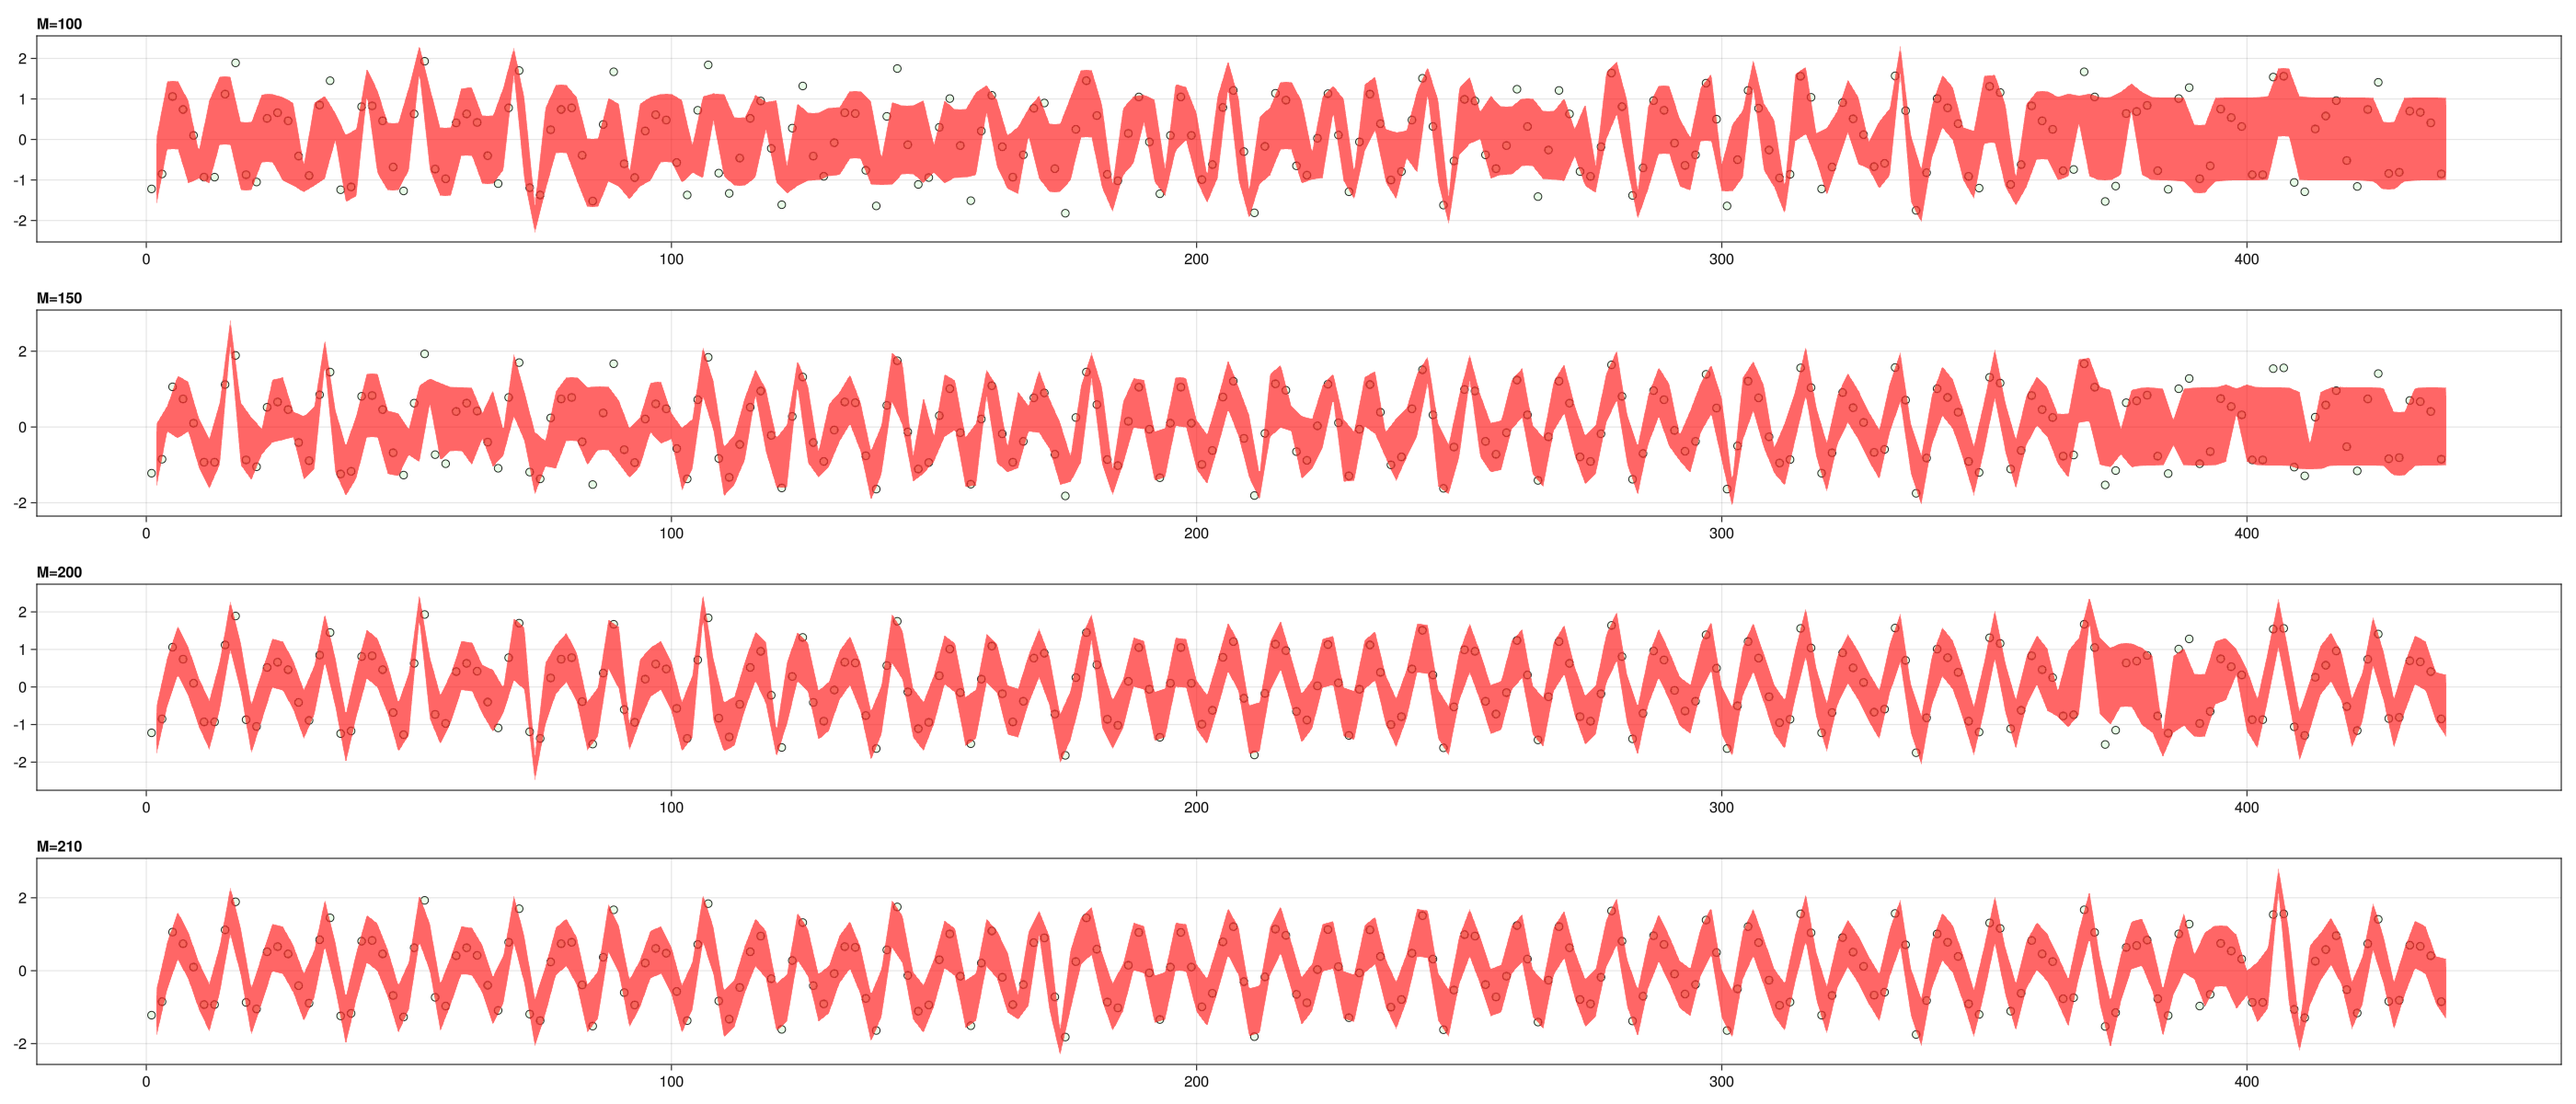
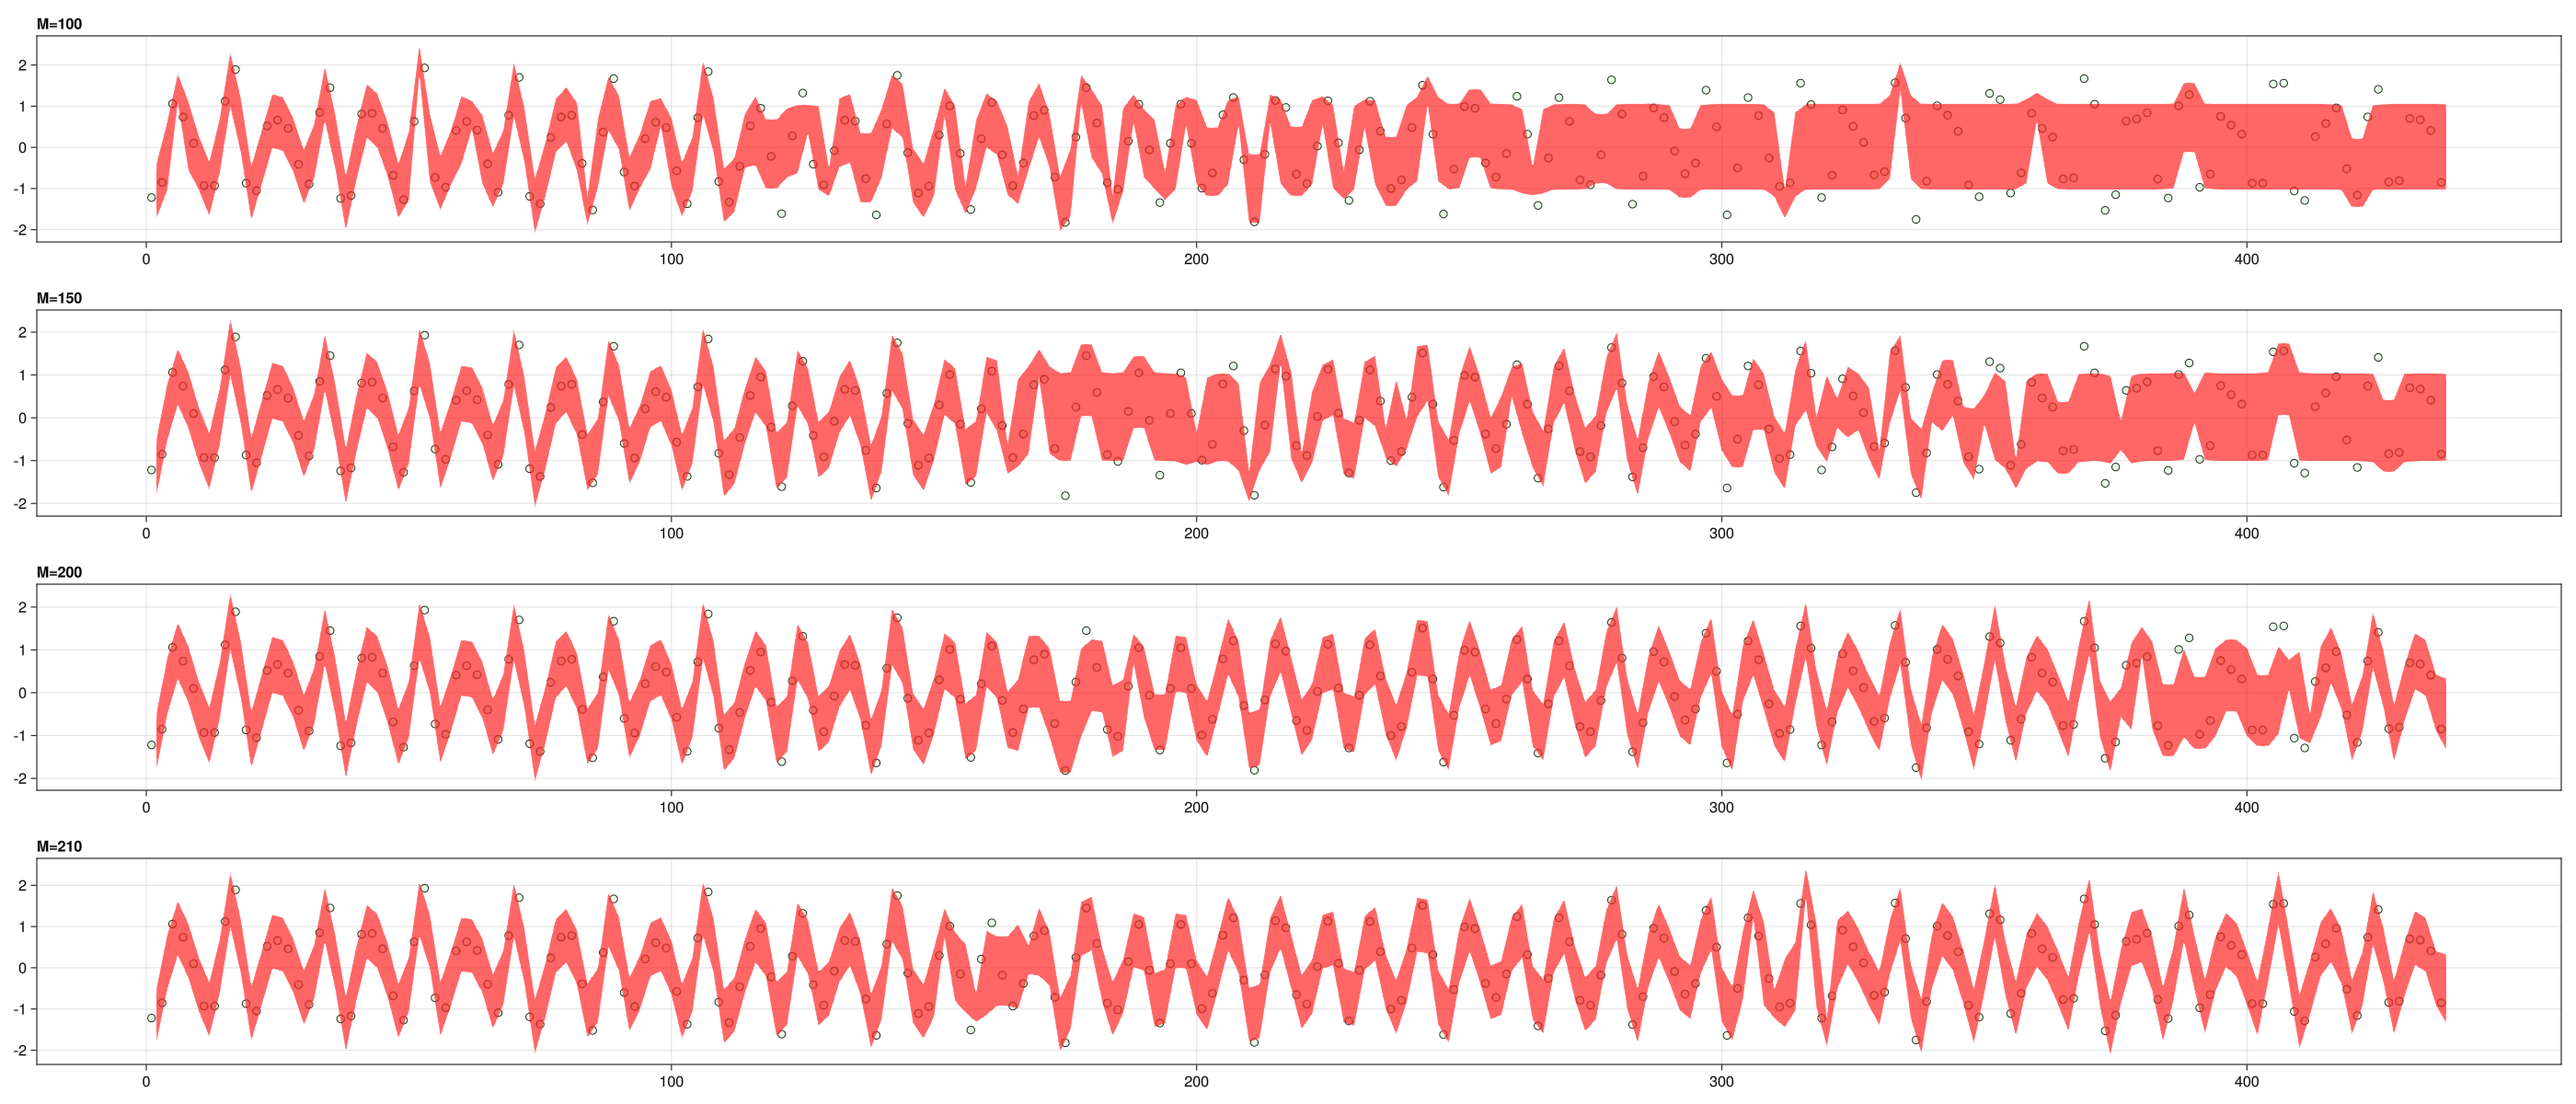
minor  modify
minor modify

diff --git a/docs/posts/tidePredict/index.html b/docs/posts/tidePredict/index.html
@@ -267,7 +267,7 @@ Note
 <span id="cb4-20"><a href="#cb4-20" aria-hidden="true" tabindex="-1"></a>        <span class="cf">end</span></span>
 <span id="cb4-21"><a href="#cb4-21" aria-hidden="true" tabindex="-1"></a>    <span class="kw">end</span></span></code><button title="Copy to Clipboard" class="code-copy-button"><i class="bi"></i></button></pre></div>
 </details>
-<div class="cell-output cell-output-display" data-execution_count="15">
+<div class="cell-output cell-output-display" data-execution_count="11">
 <pre><code>agp (generic function with 1 method)</code></pre>
 </div>
 </div>
@@ -294,7 +294,7 @@ Note
 <span id="cb6-15"><a href="#cb6-15" aria-hidden="true" tabindex="-1"></a>        <span class="co">#save("agp-tide-predict-odm-2.png",fig)</span></span>
 <span id="cb6-16"><a href="#cb6-16" aria-hidden="true" tabindex="-1"></a>    <span class="kw">end</span></span></code><button title="Copy to Clipboard" class="code-copy-button"><i class="bi"></i></button></pre></div>
 </details>
-<div class="cell-output cell-output-display" data-execution_count="16">
+<div class="cell-output cell-output-display" data-execution_count="12">
 <pre><code>plot_models (generic function with 1 method)</code></pre>
 </div>
 </div>
@@ -314,13 +314,29 @@ Note
 [ Info: Training with 210 points</code></pre>
 </div>
 <div class="cell-output cell-output-stdout">
-<pre><code>  3.823105 seconds (5.97 M allocations: 529.096 MiB, 6.16% gc time, 96.19% compilation time)
-  0.194146 seconds (124.53 k allocations: 268.146 MiB, 13.12% gc time)
-  0.328468 seconds (181.33 k allocations: 435.561 MiB, 8.53% gc time)
-  0.341053 seconds (193.89 k allocations: 473.747 MiB, 7.59% gc time)</code></pre>
+<pre><code>  0.113034 seconds (77.73 k allocations: 139.970 MiB, 20.12% gc time)
+  0.202329 seconds (124.53 k allocations: 268.146 MiB, 8.24% gc time)
+  0.351548 seconds (181.33 k allocations: 435.561 MiB, 8.37% gc time)
+  0.349434 seconds (193.89 k allocations: 473.747 MiB, 9.18% gc time)</code></pre>
 </div>
-<div class="cell-output cell-output-display" data-execution_count="17">
+<div class="cell-output cell-output-display" data-execution_count="13">
 <p><img src="index_files/figure-html/cell-6-output-3.png" class="img-fluid"></p>
+</div>
+</div>
+</section>
+<section id="结论" class="level2">
+<h2 class="anchored" data-anchor-id="结论">6. 结论</h2>
+<div class="callout callout-style-default callout-note callout-titled" title="Results">
+<div class="callout-header d-flex align-content-center">
+<div class="callout-icon-container">
+<i class="callout-icon"></i>
+</div>
+<div class="callout-title-container flex-fill">
+Results
+</div>
+</div>
+<div class="callout-body-container callout-body">
+<p>潮汐的的 timeseries里只看到周期性的趋势, 没有线性趋势 由于统计数据的数据点非常多, 多以需要的探索点也很多200多 点才能得到比较好的拟合曲线, 这是因为数据自身的维度就很高</p>
 </div>
 </div>
 

diff --git a/docs/index.html b/docs/index.html
@@ -191,7 +191,7 @@ ul.task-list li input[type="checkbox"] {
   </div>
 </div>
 <div class="list quarto-listing-default">
-<div class="quarto-post image-right" data-index="0" data-categories="julia,timeseries" data-listing-date-sort="1696089600000" data-listing-file-modified-sort="1696173406133" data-listing-date-modified-sort="NaN" data-listing-reading-time-sort="3">
+<div class="quarto-post image-right" data-index="0" data-categories="julia,timeseries" data-listing-date-sort="1696089600000" data-listing-file-modified-sort="1696173921824" data-listing-date-modified-sort="NaN" data-listing-reading-time-sort="3">
 <div class="thumbnail">
 <p><a href="./posts/tidePredict/index.html"> <img src="./posts/tidePredict/agp-tide-predict-odm.png" class="thumbnail-image"> </a></p>
 </div>
@@ -214,7 +214,7 @@ timeseries
 </div>
 <a href="./posts/tidePredict/index.html">
 <div class="listing-description">
-
+潮汐的的 timeseries里只看到周期性的趋势, 没有线性趋势 由于统计数据的数据点非常多, 多以需要的探索点也很多200多 点才能得到比较好的拟合曲线, 这是因为数据自身的维度就很高
 </div>
 </a>
 </div>
